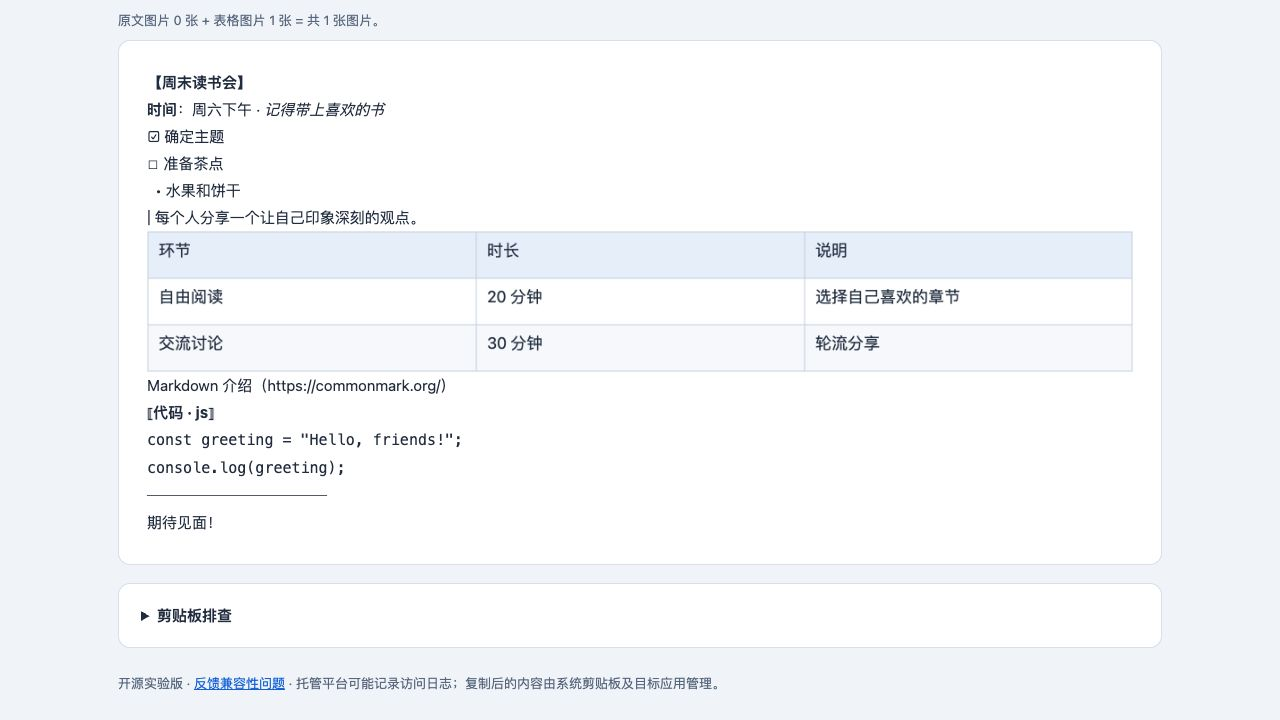
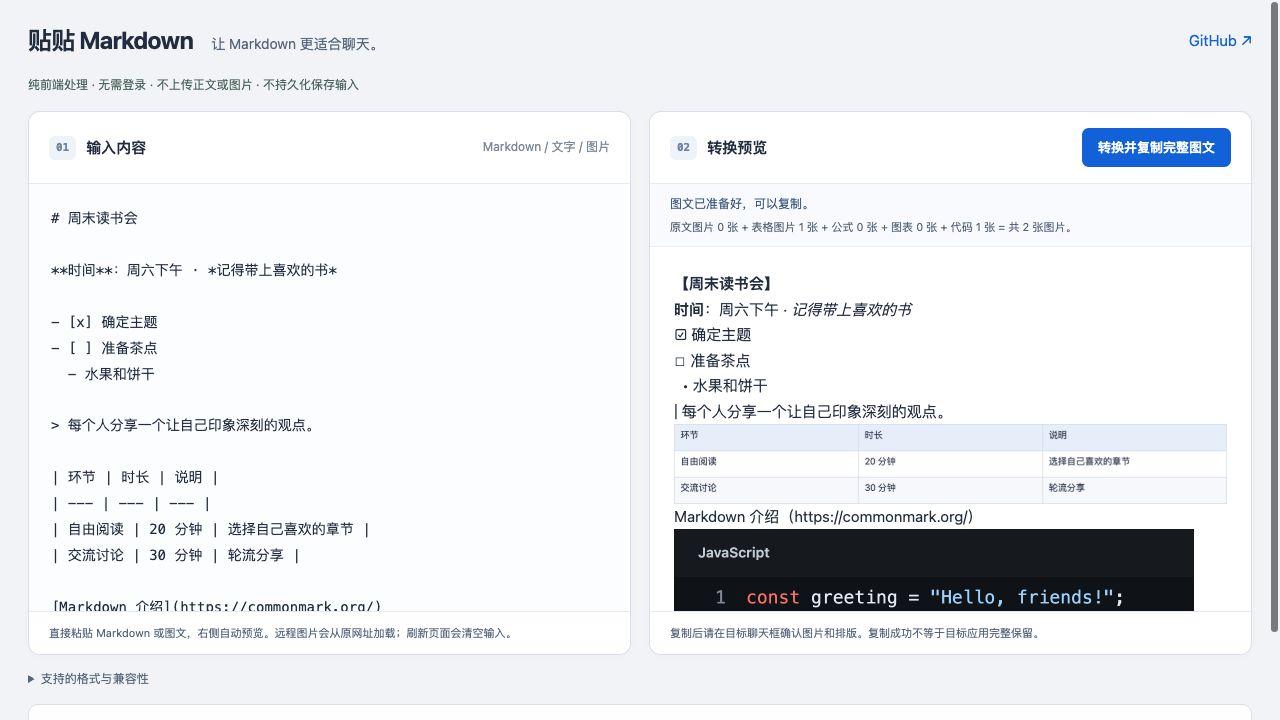
feat: use split input and preview workspace

diff --git a/assets/style.css b/assets/style.css
@@ -1,8 +1,62 @@
-*{box-sizing:border-box}body{margin:0;background:#f2f5f9;color:#253247;font:15px/1.8 -apple-system,BlinkMacSystemFont,"PingFang SC",sans-serif}main{max-width:1080px;margin:24px auto;padding:0 18px}.toolbar{background:white;border:1px solid #dce3ed;border-radius:12px;padding:18px 22px;margin-bottom:18px;position:sticky;top:12px;box-shadow:0 4px 18px #2532470a}button{font:inherit;background:#1769df;color:#fff;border:0;border-radius:8px;padding:11px 24px;cursor:pointer}button:disabled{opacity:.65;cursor:wait}#status{font-size:13px;color:#617188;margin-top:8px}article{background:white;border:1px solid #dce3ed;border-radius:12px;padding:28px;overflow-wrap:anywhere}article img{height:auto;max-width:100%}
-.diagnostics{margin:18px 0;background:#fff;border:1px solid #dce3ed;border-radius:12px;padding:18px 22px}.diagnostics summary{cursor:pointer;font-weight:600}.diagnostics p{font-size:14px;color:#617188}.diagnostic-actions{display:flex;flex-wrap:wrap;gap:10px;margin:12px 0}.diagnostic-actions button{font-size:14px;padding:8px 14px;background:#edf3fc;color:#1769df}.paste-zone{border:1px dashed #8fa6c7;border-radius:8px;padding:14px;min-height:65px;max-height:130px;overflow:auto;white-space:pre-wrap}.paste-zone:empty:before{content:attr(data-placeholder);color:#8b97a8}.diagnostic-report{white-space:pre-wrap;overflow-wrap:anywhere;max-height:440px;overflow:auto;font:13px/1.7 monospace;background:#f7f9fc;padding:14px;border-radius:8px}.clipboard-image{display:block;max-width:100%;max-height:360px;object-fit:contain;margin-top:12px}.diagnostic-source{width:100%;min-height:140px;font:12px/1.6 monospace;border:1px solid #dce3ed;padding:10px}
-
-.input-panel{background:white;border:1px solid #dce3ed;border-radius:12px;padding:22px;margin-bottom:18px}h1{font-size:23px;margin:0 0 10px}.input-panel label{display:block;font-weight:600;margin-bottom:10px}#markdown-input{width:100%;min-height:270px;resize:vertical;border:1px solid #becde0;border-radius:8px;padding:14px;font:14px/1.7 monospace;color:#253247;background:#fbfcfe}.help{font-size:13px;color:#617188;margin:8px 0}.preview-label{font-size:16px;margin:18px 0 8px}.toolbar{position:static}article{min-height:100px}
-
-#markdown-input{white-space:pre-wrap;overflow-wrap:anywhere;max-height:520px;overflow-y:auto;outline:none}#markdown-input:focus{border-color:#1769df;box-shadow:0 0 0 2px #1769df18}#markdown-input img{max-width:100%;max-height:280px;object-fit:contain}
-
-header{display:flex;justify-content:space-between;gap:20px;align-items:center;margin-bottom:22px}header a,footer a{color:#1769df}header p{margin:0;color:#617188}h1{font-size:28px}.privacy-note{padding:12px;background:#edf3fc;border-radius:8px}footer{margin:24px 0;font-size:13px;color:#617188}button:focus-visible,a:focus-visible{outline:3px solid #74a7f0;outline-offset:3px}@media(max-width:600px){main{margin:16px auto;padding:0 12px}header{align-items:flex-start}article,.input-panel,.toolbar{padding:16px}h1{font-size:24px}}
+*{box-sizing:border-box}
+body{margin:0;background:#f3f5f8;color:#253247;font:15px/1.7 -apple-system,BlinkMacSystemFont,"PingFang SC",sans-serif}
+main{max-width:1920px;margin:0 auto;padding:20px 28px}
+header{display:flex;justify-content:space-between;gap:20px;align-items:center;margin-bottom:14px}
+header>div{display:flex;align-items:baseline;gap:18px}
+h1{font-size:24px;letter-spacing:-.5px;margin:0}
+header p{margin:0;color:#617188;font-size:14px}
+header a,footer a{color:#1769df;text-decoration:none}
+a:hover{text-decoration:underline}
+.help{font-size:12px;color:#617188;margin:8px 0}
+.privacy-note{margin:0 0 16px;color:#547065}
+.workspace{display:grid;grid-template-columns:minmax(0,1fr) minmax(0,1fr);gap:18px;height:calc(100dvh - 176px);min-height:480px}
+.input-panel,.preview-panel{display:flex;flex-direction:column;min-width:0;min-height:0;background:#fff;border:1px solid #dce3ed;border-radius:12px;overflow:hidden;box-shadow:0 2px 8px #25324704}
+.panel-heading{display:flex;align-items:center;justify-content:space-between;flex-wrap:wrap;gap:10px;min-height:72px;padding:14px 20px;border-bottom:1px solid #e8edf4}
+.panel-heading>div{display:flex;align-items:center;gap:10px}
+.panel-heading label,.panel-heading h2{font-size:15px;font-weight:600;margin:0}
+.step{font:600 11px/24px ui-monospace,monospace;color:#7890ae;background:#f0f4fa;border-radius:6px;padding:0 7px}
+.panel-hint{font-size:12px;color:#8592a4}
+button{font:600 13px/1.6 -apple-system,BlinkMacSystemFont,"PingFang SC",sans-serif;background:#1769df;color:#fff;border:0;border-radius:7px;padding:9px 16px;cursor:pointer}
+button:hover:not(:disabled){background:#1259c0}
+button:disabled{opacity:.55;cursor:not-allowed}
+button:focus-visible,a:focus-visible,summary:focus-visible,#message:focus-visible{outline:3px solid #74a7f0;outline-offset:3px}
+#markdown-input{flex:1;min-height:0;width:100%;border:0;padding:22px;white-space:pre-wrap;overflow-wrap:anywhere;overflow-y:auto;outline:none;font:14px/1.85 ui-monospace,SFMono-Regular,Menlo,Consolas,"PingFang SC",monospace;color:#253247;background:#fcfdff;tab-size:4;scrollbar-gutter:stable}
+#markdown-input:focus{box-shadow:inset 0 0 0 2px #1769df40}
+#markdown-input img{max-width:100%;max-height:280px;object-fit:contain}
+.preview-status{padding:10px 20px;border-bottom:1px solid #eef1f6;background:#fafbfd;overflow-wrap:anywhere}
+#status{font-size:12px;color:#47658a}
+#conversion-info{margin:3px 0 0;font-size:11px}
+#conversion-info:empty{display:none}
+#message{flex:1;min-height:0;padding:24px;overflow:auto;overflow-wrap:anywhere;scrollbar-gutter:stable;background:#fff}
+#message img{height:auto;max-width:100%}
+.panel-footer{flex:none;margin:0;border-top:1px solid #e8edf4;padding:12px 20px;background:#fff;font-size:11px;line-height:1.7}
+main>details.help{margin:14px 0}
+summary{cursor:pointer}
+.diagnostics{margin:14px 0;background:#fff;border:1px solid #dce3ed;border-radius:10px;padding:14px 20px}
+.diagnostics summary{font-size:13px;font-weight:600}
+.diagnostics p{font-size:13px;color:#617188}
+.diagnostic-actions{display:flex;flex-wrap:wrap;gap:10px;margin:12px 0}
+.diagnostic-actions button{font-size:13px;padding:8px 14px;background:#edf3fc;color:#1769df}
+.diagnostic-actions button:hover:not(:disabled){background:#e0ebfc}
+.paste-zone{border:1px dashed #8fa6c7;border-radius:8px;padding:14px;min-height:65px;max-height:130px;overflow:auto;white-space:pre-wrap}
+.paste-zone:empty:before{content:attr(data-placeholder);color:#8b97a8}
+.diagnostic-report{white-space:pre-wrap;overflow-wrap:anywhere;max-height:440px;overflow:auto;font:13px/1.7 monospace;background:#f7f9fc;padding:14px;border-radius:8px}
+.clipboard-image{display:block;max-width:100%;max-height:360px;object-fit:contain;margin-top:12px}
+footer{margin:18px 0 4px;font-size:12px;color:#617188}
+@media(max-width:900px){
+ main{padding:16px}
+ header>div{display:block}header p{font-size:12px;margin-top:3px}
+ .workspace{grid-template-columns:minmax(0,1fr);height:auto;min-height:0}
+ #markdown-input{flex:none;height:42dvh;min-height:280px;max-height:500px}
+ #message{flex:none;max-height:65dvh;min-height:240px}
+}
+@media(max-width:480px){
+ main{padding:12px}h1{font-size:21px}header a{font-size:13px}
+ .privacy-note{font-size:11px}
+ .panel-heading{padding:12px 14px;gap:8px;min-height:62px}
+ .panel-heading>div{gap:7px}.panel-hint{font-size:10px}
+ .preview-panel .step{display:none}
+ #copy-all{padding:9px 11px;font-size:12px}
+ #markdown-input,#message{padding:16px}
+ .preview-status,.panel-footer{padding:10px 14px}
+}

diff --git a/index.html b/index.html
@@ -9,9 +9,10 @@
 </head>
 <body><main>
 <header><div><h1>贴贴 Markdown</h1><p>让 Markdown 更适合聊天。</p></div><a href="https://github.com/forgeturl/md2chat" target="_blank" rel="noopener noreferrer">GitHub ↗</a></header>
-<section class="input-panel">
 <p class="privacy-note help">纯前端处理 · 无需登录 · 不上传正文或图片 · 不持久化保存输入</p>
-<label for="markdown-input">粘贴 Markdown、文字或图片</label>
+<div class="workspace">
+<section class="input-panel" aria-labelledby="input-title">
+<div class="panel-heading"><div><span class="step">01</span><label id="input-title" for="markdown-input">输入内容</label></div><span class="panel-hint">Markdown / 文字 / 图片</span></div>
 <div id="markdown-input" contenteditable="true" role="textbox" aria-multiline="true" aria-label="粘贴图文或 Markdown 内容" spellcheck="false"># 周末读书会
 
 **时间**：周六下午 · *记得带上喜欢的书*
@@ -36,11 +37,16 @@ console.log(greeting);
 
 ---
 期待见面！</div>
-<p class="help">标题、强调、列表、引用、链接、行内代码保留为文字；代码块带语法高亮和行号，和表格、公式、Mermaid 一起转成图片。可粘贴图片本身补充原图。远程图片自动从原网址加载。输入仅保留在本页内存，刷新会清空。</p>
+<p class="panel-footer help">直接粘贴 Markdown 或图文，右侧自动预览。远程图片会从原网址加载；刷新页面会清空输入。</p>
 </section>
-<div class="toolbar"><button id="copy-all" disabled>转换并复制完整图文</button><div id="status" role="status" aria-live="polite">正在准备预览…</div><p class="help">复制标准 HTML 与纯文本。钉钉、微信等客户端可能忽略样式或图片；复制成功不等于粘贴完整，请检查目标聊天框。</p></div>
+<section class="preview-panel" aria-labelledby="preview-title">
+<div class="panel-heading"><div><span class="step">02</span><h2 id="preview-title">转换预览</h2></div><button id="copy-all" disabled>转换并复制完整图文</button></div>
+<div class="preview-status"><div id="status" role="status" aria-live="polite">正在准备预览…</div><p class="help" id="conversion-info"></p></div>
+<article id="message" tabindex="0" aria-label="转换预览内容"></article>
+<p class="panel-footer help">复制后请在目标聊天框确认图片和排版。复制成功不等于目标应用完整保留。</p>
+</section>
+</div>
 <details class="help"><summary>支持的格式与兼容性</summary><p>支持标题、粗体、斜体、删除线、编号和嵌套列表、任务项、引用、链接、代码块、分隔线、表格及图片。原始 HTML 按文字显示，支持 $…$ / \(…\) 行内公式、$$…$$ / \[…\] 独立公式和 mermaid 代码块。代码块使用深色语法高亮，长行折行、长代码分图，未知语言按原文排版。代码、公式与图表转为 PNG，纯文本保留源码；表格单元格内的公式暂保留源码。</p><p>图片读取受限时会阻止复制并提示补图。网页无法访问钉钉专有剪贴板格式。不能保证一键图文粘贴适用于所有聊天客户端。</p></details>
-<h2 class="preview-label">转换预览</h2><p class="help" id="conversion-info"></p><article id="message"></article>
 <details class="diagnostics" id="diagnostics"><summary>剪贴板排查</summary>
 <p>只在你点击或粘贴时读取浏览器开放的格式，不读取原生应用专有格式。报告仅含格式、大小及图片数量，不包含正文和图片地址。</p>
 <div class="diagnostic-actions"><button id="read-clipboard">读取当前剪贴板</button><button id="copy-report" disabled>复制排查报告</button></div>

diff --git a/README.md b/README.md
@@ -12,11 +12,11 @@
 
 ## 使用
 
-1. 粘贴 Markdown 或图文，查看转换预览。
+1. 在左栏粘贴 Markdown 或图文，右栏实时查看转换预览。
 2. 点击 **转换并复制完整图文**。
 3. 到聊天框粘贴，检查图片数量、顺序与排版后再发送。
 
-主流程只有一个复制按钮，剪贴板排查折叠在底部。可以先用页面里的虚构读书会示例体验。
+桌面采用左右分栏，输入和预览独立滚动，复制按钮始终位于右栏顶部；窄屏自动改为上下排列。主流程只有一个复制按钮，剪贴板排查折叠在底部。可以先用页面里的虚构读书会示例体验。
 
 ## 功能
 
